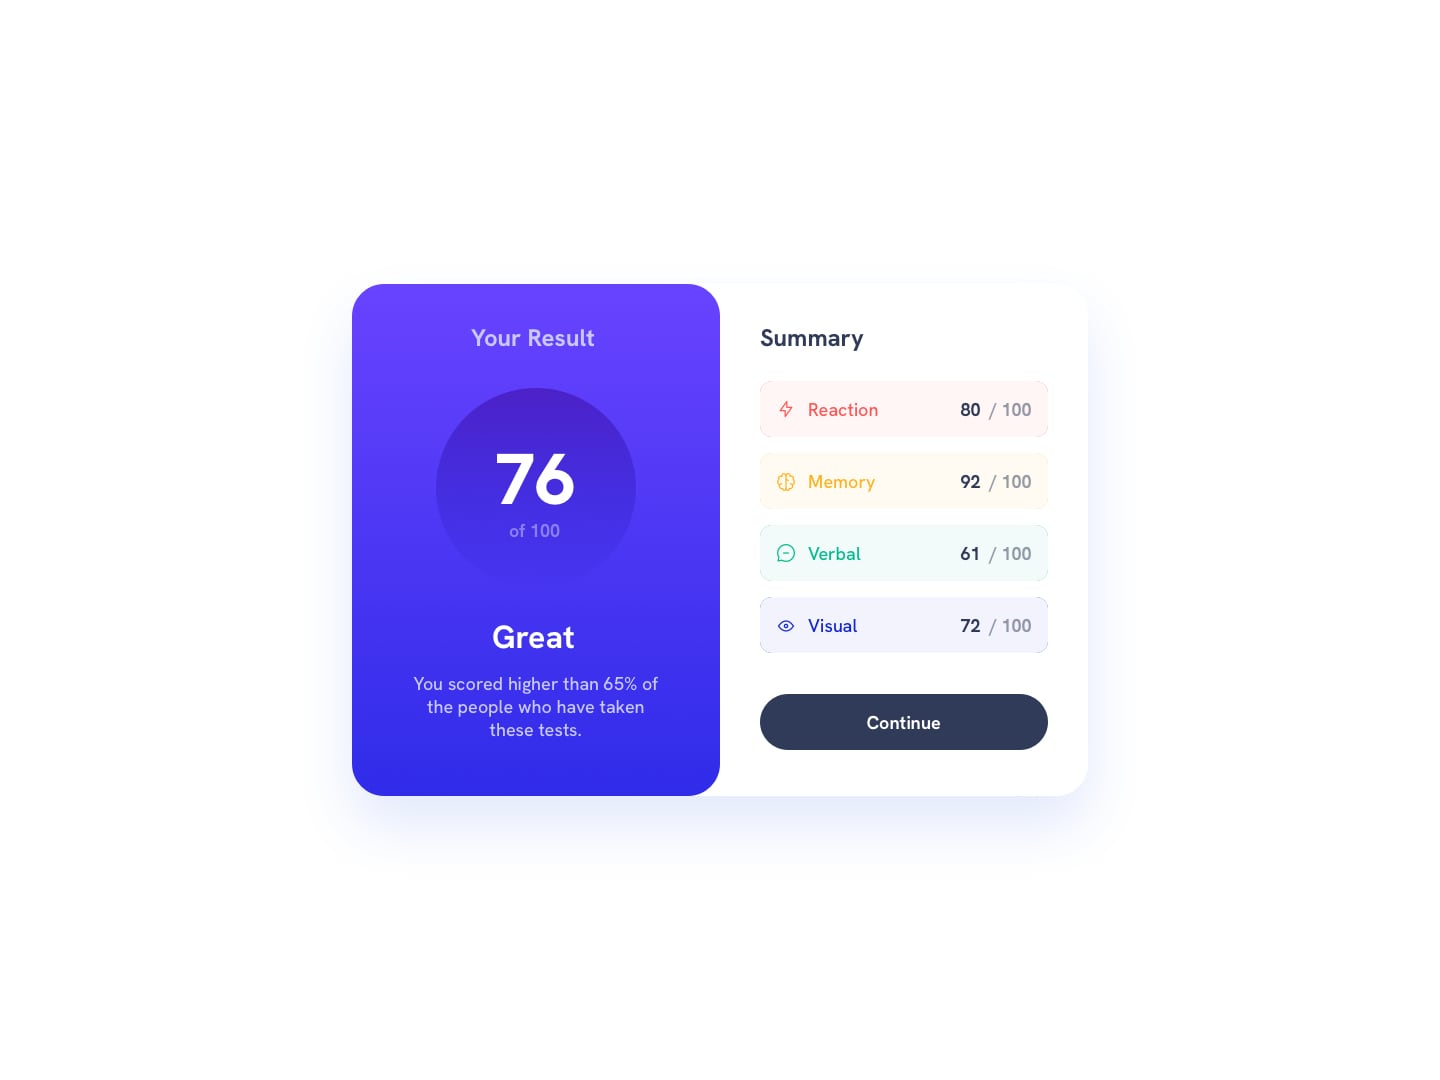
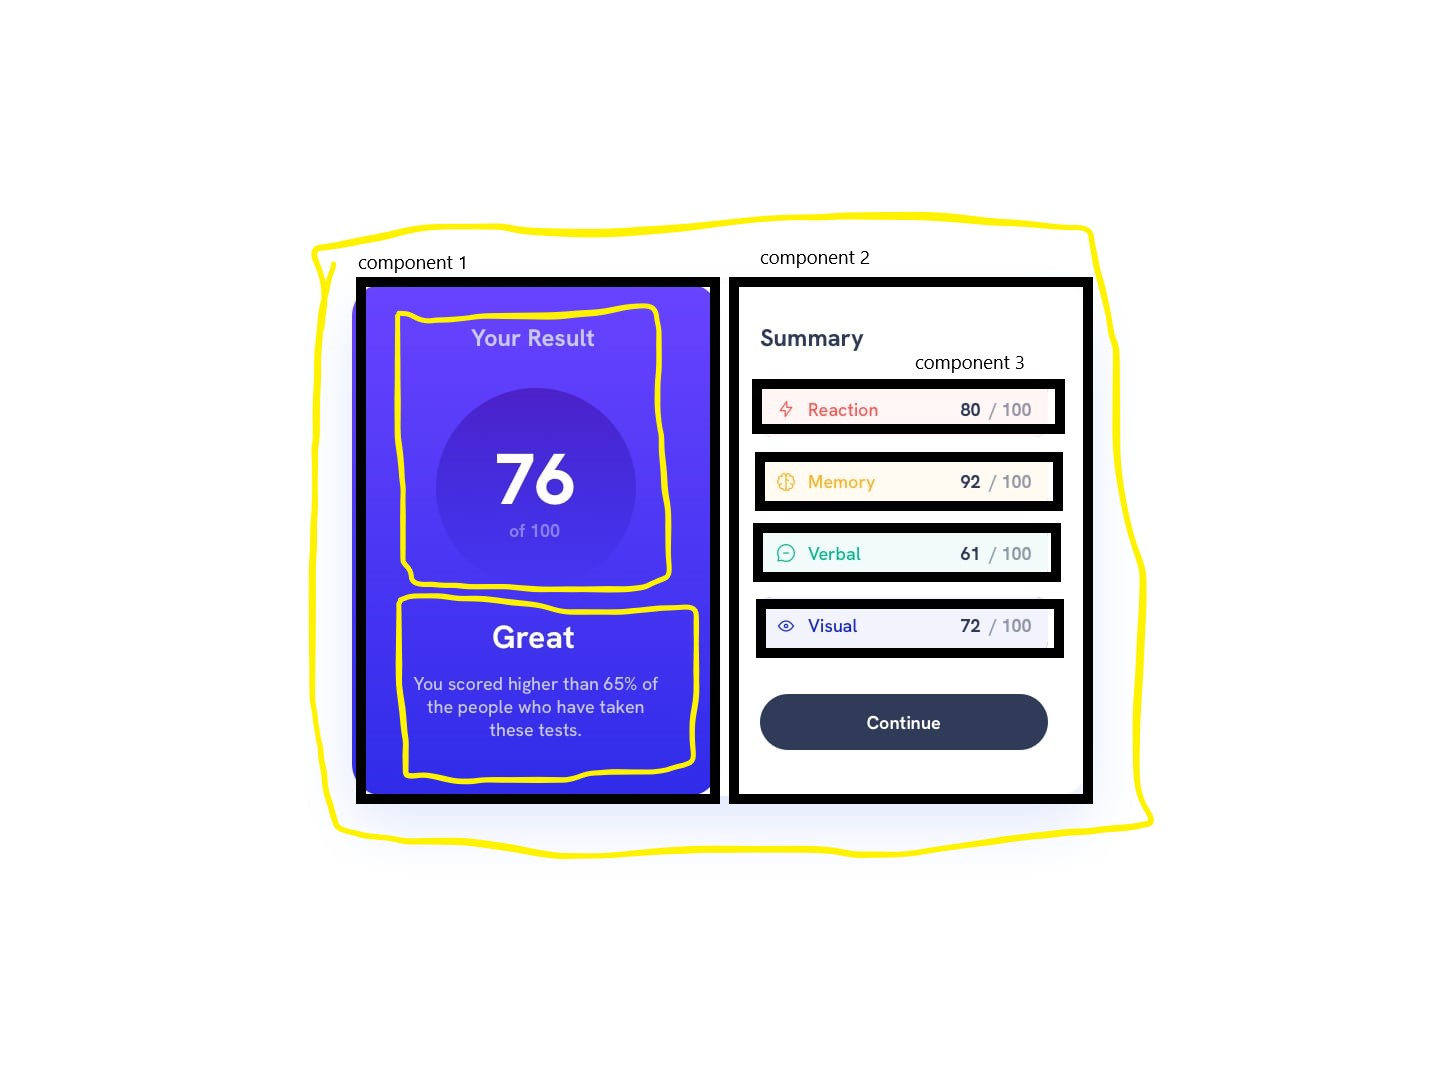
Structured the project with necessary changes

Changed region(s): [[0.1875, 0.1833, 0.8125, 0.7944]]

diff --git a/temp.js b/temp.js
@@ -1,0 +1,152 @@
+class BinarySearchTree {
+    constructor() {
+      this.root = null;
+    }
+  
+    // insert a new node into the tree
+    insert(value) {
+      const newNode = { value, left: null, right: null };
+  
+      if (!this.root) {
+        this.root = newNode;
+      } else {
+        let currentNode = this.root;
+  
+        while (true) {
+          if (value < currentNode.value) {
+            if (!currentNode.left) {
+              currentNode.left = newNode;
+              break;
+            } else {
+              currentNode = currentNode.left;
+            }
+          } else {
+            if (!currentNode.right) {
+              currentNode.right = newNode;
+              break;
+            } else {
+              currentNode = currentNode.right;
+            }
+          }
+        }
+      }
+    }
+    // search for a node with the given value
+    contains(value) {
+      let currentNode = this.root;
+  
+      while (currentNode) {
+        if (value === currentNode.value) {
+          return true;
+        } else if (value < currentNode.value) {
+          currentNode = currentNode.left;
+        } else {
+          currentNode = currentNode.right;
+        }
+      }
+  
+      return false;
+    }
+    // delete a node with the given value
+    delete(value) {
+      let parentNode = null;
+      let currentNode = this.root;
+  
+      while (currentNode && currentNode.value !== value) {
+        parentNode = currentNode;
+  
+        if (value < currentNode.value) {
+          currentNode = currentNode.left;
+        } else {
+          currentNode = currentNode.right;
+        }
+      }
+  
+      if (!currentNode) {
+        return;
+      }
+  
+      if (!currentNode.left && !currentNode.right) {
+        if (!parentNode) {
+          this.root = null;
+        } else if (currentNode === parentNode.left) {
+          parentNode.left = null;
+        } else {
+          parentNode.right = null;
+        }
+      } else if (!currentNode.left || !currentNode.right) {
+        const childNode = currentNode.left || currentNode.right;
+  
+        if (!parentNode) {
+          this.root = childNode;
+        } else if (currentNode === parentNode.left) {
+          parentNode.left = childNode;
+        } else {
+          parentNode.right = childNode;
+        }
+      } else {
+        const successor = this.findSuccessor(currentNode);
+  
+        this.delete(successor.value);
+  
+        currentNode.value = successor.value;
+      }
+    }
+    // find the node with the smallest value in the right subtree of the given node
+    findSuccessor(node) {
+      let currentNode = node.right;
+      let successor = currentNode;
+  
+      while (currentNode) {
+        successor = currentNode;
+        currentNode = currentNode.left;
+      }
+  
+      return successor;
+    }
+  
+    // convert the tree to an array
+    toArray() {
+      const result = [];
+  
+      this.traverse(node => {
+        result.push(node.value);
+      });
+  
+      return result;
+    }
+    // perform an in-order traversal of the tree, calling the given function on each node
+    traverse(fn) {
+      function inOrder(node) {
+        if (node) {
+          inOrder(node.left);
+          fn(node);
+          inOrder(node.right);
+        }
+      }
+  
+      inOrder(this.root);
+    }
+  }
+
+  const numberArray = [6, 5, 7, 8, 4, 5, 6, 9, 10];
+
+  // Step 1
+  const binarySearchTree = new BinarySearchTree();
+  
+  // Step 2
+  for (const element of numberArray) {
+    // Step 2a
+    if (!binarySearchTree.contains(element)) {
+      binarySearchTree.insert(element);
+    }
+  }
+  
+  // Step 4
+  binarySearchTree.delete(5);
+  binarySearchTree.delete(8);
+  binarySearchTree.delete(9);
+  binarySearchTree.delete(10);
+  
+  // Step 6
+  console.log(binarySearchTree.toArray())

diff --git a/results-summary-component-main/src/Summary.jsx b/results-summary-component-main/src/Summary.jsx
@@ -1,10 +1,68 @@
+import Summary from './summary_stat'
 
 function summary(){
+  
     return(
-      <div className="App">
-       <p>component 2</p>
+
+      <div className='summary-container'>
+      <h3>Summary</h3>
+        <div className='summary-stats'>
+           <Summary
+              img = './src/assets/images/icon-reaction.svg'
+              type = 'Reaction'
+              value = {80}
+            />
+           <Summary 
+              img = './src/assets/images/icon-memory.svg'
+              type = 'Memory'
+              value = {92}
+           />
+           <Summary 
+              img = './src/assets/images/icon-verbal.svg'
+              type = 'Verbal'
+              value = {61}
+           />
+           <Summary 
+              img = './src/assets/images/icon-visual.svg'
+              type = 'Visual'
+              value = {72}
+           />
+        </div>
+      <button className='button'>
+        Continue
+      </button>
       </div>
+
     )
   }
 
 export default summary  
+
+{/* <div className='summary-stat'>
+<div className='stat-type'>
+  <img src={ memoryIcon } alt='icon'/>
+  <p>Memory</p>
+</div>
+<div className='stat-value'>
+  <p> <span>92</span> / 100</p>
+</div>
+</div>
+<div className='summary-stat'>
+<div className='stat-type'>
+  <img src={ verbalIcon } alt='icon'/>
+  <p>Verbal</p>
+</div>
+<div className='stat-value'>
+  <p> <span>61</span> / 100</p>
+</div>
+</div>
+<div className='summary-stat'>
+<div className='stat-type'>
+  <img src={ visualIcon } alt='icon'/>
+  <p>Visual</p>
+</div>
+<div className='stat-value'>
+  <p> <span>72</span> / 100</p>
+</div>
+</div>
+</div> */}

diff --git a/temp2.js b/temp2.js
@@ -1,0 +1,56 @@
+class Node {
+    constructor(value) {
+      this.value = value;
+      this.next = null;
+    }
+  }
+  class LinkedList {
+    constructor() {
+      this.head = null;
+      this.tail = null;
+      this.length = 0;
+    }
+    append(value) {
+      const node = new Node(value);
+      if (!this.head) {
+        this.head = node;
+        this.tail = node;
+      } else {
+        this.tail.next = node;
+        this.tail = node;
+   }
+      this.length++;
+    }
+  }
+
+  const list = new LinkedList();
+  list.append(40);
+  list.append(50);
+  list.append(40);
+  list.append(80);
+  list.append(70);
+  list.append(30);
+  
+
+  let current = list.head;
+let previous = null;
+
+while (current) {
+  if (current.value === 40) {
+    if (!previous) {
+      // If the node to remove is the head of the list
+      list.head = current.next;
+    } else {
+      // If the node to remove is not the head of the list
+      previous.next = current.next;
+      if (!current.next) {
+        // If the node to remove is the tail of the list
+        list.tail = previous;
+      }
+    }
+    list.length--;
+    break;
+  }
+  previous = current;
+  current = current.next;
+}

diff --git a/results-summary-component-main/src/Results.jsx b/results-summary-component-main/src/Results.jsx
@@ -2,9 +2,19 @@
 function result() {
 
   return (
-    <div className="App">
-      <h1>component 1</h1>
-    </div>
+    <div className="results-container">
+        <div className="results">
+            <h3>Your Result</h3>
+            <div className="result-numbers">
+              <h1>76</h1>
+              <p>of 100</p>
+            </div>
+        </div>
+        <div className="results-message">
+          <h2>Great</h2>
+          <p>You scored higher than 65% of the people who have taken these tests.</p>
+        </div>
+      </div>
   )
 }
 

diff --git a/results-summary-component-main/src/summary_stat.jsx b/results-summary-component-main/src/summary_stat.jsx
@@ -1,0 +1,17 @@
+
+function summary_stat(props){
+  console.log(props)
+    return(
+        <div className='summary-stat'>
+          <div className='stat-type'>
+            <img src={ props.img } alt='icon'/>
+            <p>{ props.type }</p>
+          </div>
+          <div className='stat-value'>
+            <p> <span>{ props.value }</span> / 100</p>
+          </div>
+      </div>
+    )
+}
+
+export default summary_stat

diff --git a/results-summary-component-main/src/index.css b/results-summary-component-main/src/index.css
@@ -55,4 +55,15 @@ body {
   font-family: 'Poppins', sans-serif;
 }
 
+main{
+  display: flex;
+}
 
+.summary-stat{
+  display: flex;
+  justify-content: space-between;
+}
+
+.stat-type{
+  display: flex;
+}
